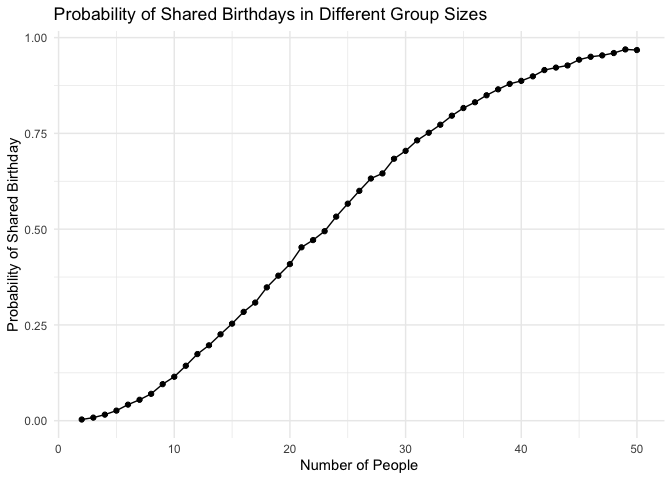
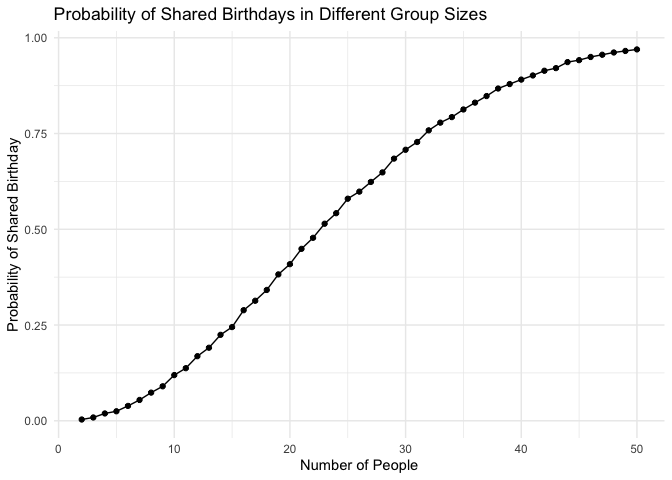
trying to write a function to import file data

diff --git a/p8105_hw5_eej2124.md b/p8105_hw5_eej2124.md
@@ -51,3 +51,63 @@ share a birthday. This probability increases steadily as the number of
 people in the room increases.
 
 # Problem 2
+
+## Make a dataframe with all file names
+
+``` r
+participants_df = 
+  tibble(
+    file_name = list.files(path = "data")
+    ) 
+
+#|> 
+#  mutate(
+#   file_name = str_replace(file_name, ".csv", " "))
+```
+
+## Iterate over file names and read in data for each participant
+
+``` r
+#participants_df |> 
+#  mutate(
+ #   data = map(file_name, data_import))
+```
+
+``` r
+data_import = 
+  read_csv("data/con_01.csv") |> 
+  janitor::clean_names() |> 
+  pivot_longer(
+    week_1:week_8,
+    names_to = "week", 
+    values_to = "data"
+  ) |> 
+  mutate(
+    week = str_replace(week, "week_", " "))
+```
+
+    ## Rows: 1 Columns: 8
+    ## ── Column specification ────────────────────────────────────────────────────────
+    ## Delimiter: ","
+    ## dbl (8): week_1, week_2, week_3, week_4, week_5, week_6, week_7, week_8
+    ## 
+    ## ℹ Use `spec()` to retrieve the full column specification for this data.
+    ## ℹ Specify the column types or set `show_col_types = FALSE` to quiet this message.
+
+``` r
+data_import = function() {
+  
+  data_df = 
+    read_csv("data") |> 
+    janitor::clean_names() |> 
+    pivot_longer(
+      week_1:week_8,
+      names_to = "week", 
+      values_to = "data"
+      ) |> 
+    mutate(
+      week = str_replace(week, "week_", " "))
+  
+  return(data_df)
+  }
+```
